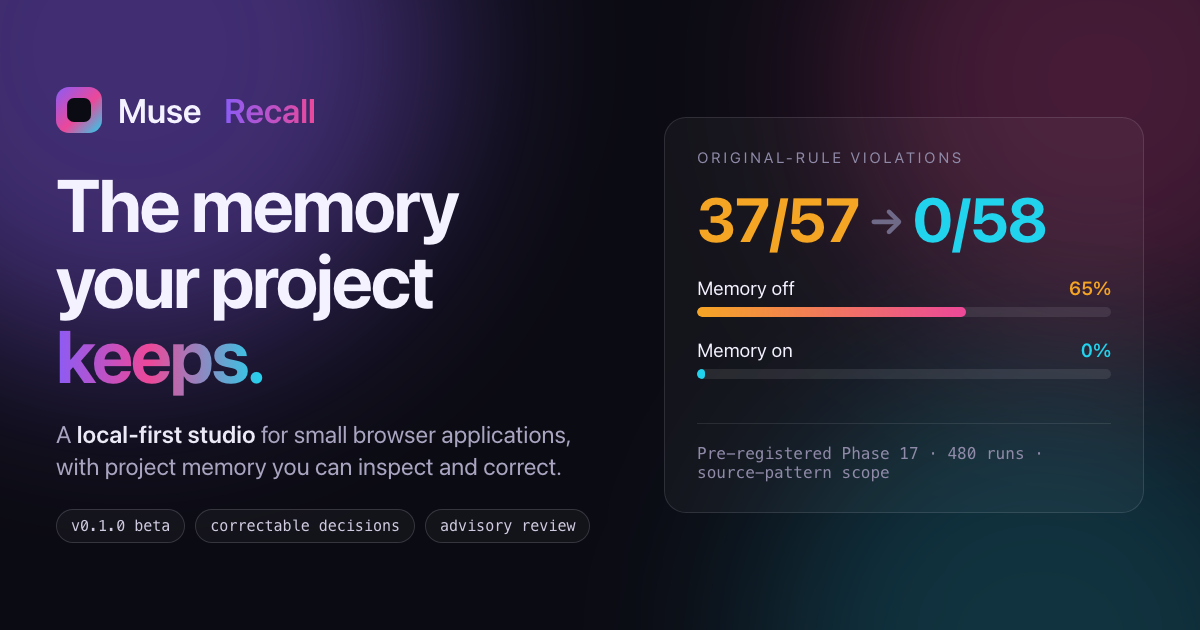
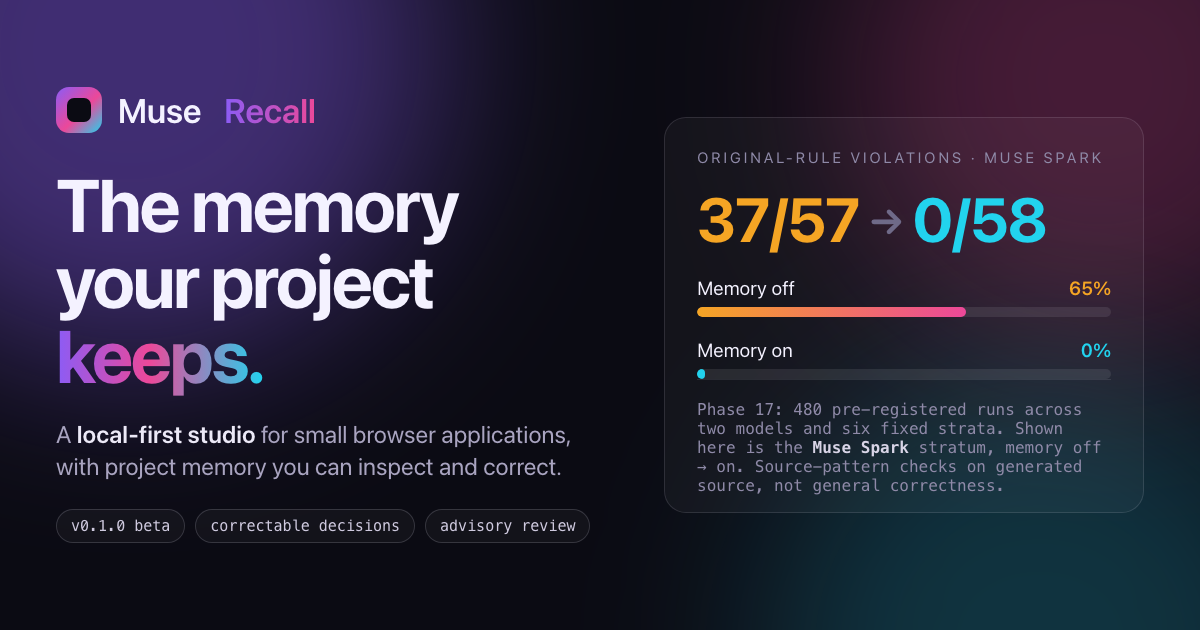
Correct demo beat labels, submission-tag claims, metadata and social-card stats
Review corrections on PR #273.

docs/demo/video/V21_QA.md
- Beat table rebuilt from the shipped caption cues plus frames pulled from the video:
  chapter starts at 0:05.2, 0:25.1, 0:34.0, 0:43.7, 0:51.9, 1:08.7, 1:22.5, 1:35.4,
  1:42.5, 1:57.3, 2:12.1, 2:30.0, 2:55.4, each row quoting the in-video card label
  ("Recorded live Muse Spark · actual CLI requests and results", "Retained Meta result.
  Approval and insertion replayed here", "Meta vision: ... deterministic review fixtures",
  and the export/dry-run import terminal output).
- "Inference during this cut" replaced by "Production provenance": no calls were made while
  assembling the cut, which is not a claim that the footage has no live calls.

No submission tag exists: git ls-remote --tags origin lists v0.1.0, submission-v14,
submission-v15, phase17-preregistration and archive/*. The previous cut is located at v0.1.0
(707921db83a374d155d3929ef9b99092bcd4e8f1) and at c32d03b for the 29 October file. Fixed the
claims that treated submission-2026-11-04 as existing in V21_QA.md, EVIDENCE_MAP.md,
SECURITY.md and SUBMISSION_CHECKLIST.md; the roadmap and release notes keep it as planned work.

website
- index.html gains <link rel="canonical" href="https://sidonsoft.github.io/muse-recall/"> to
  match og:url; qa.mjs pins canonical, og:url and og:image as exact strings and matches
  multi-line meta tags. README now describes what prerender.mjs really does (no SITE setting;
[…]

Changed region(s): [[0.5858, 0.6333, 0.925, 0.7841], [0.8017, 0.2413, 0.925, 0.2714]]

diff --git a/website/src/components/Sections.jsx b/website/src/components/Sections.jsx
@@ -52,17 +52,17 @@ export function Watch() {
   const beats = [
     ['0:00', 'Owner-confirmed disclosure: no product code existed before the event.', 'Recorded disclosure card'],
     ['0:05', 'Save one project decision, ask for a game, review the staged result, approve v1.', 'Recorded live call — generation waits shown sped up and labelled'],
-    ['0:24', 'A fresh page, a new request, Guard says not verified, the proposal is rejected.', 'Recorded live call'],
-    ['0:33', 'Correct the decision: the old record becomes superseded, the replacement active.', 'Recorded live session — UI actions condensed'],
+    ['0:25', 'A fresh page, a new request, Guard says not verified, the proposal is rejected.', 'Recorded live call'],
+    ['0:34', 'Correct the decision: the old record becomes superseded, the replacement active.', 'Recorded live session — UI actions condensed'],
     ['0:43', 'Repeat the request: the retired palette comes back and the Guard flags it.', 'Recorded live call — the real failure, kept in'],
     ['0:51', 'Ask explicitly for the project’s current decisions; approve v2.', 'Recorded live call'],
     ['1:08', 'Where Meta is used: the coding CLI for applications, media APIs for image, segmentation, speech and vision.', 'Running beta UI over a retained live generation'],
     ['1:22', 'Decision history, what a generation received, memory export and import.', 'Recorded UI plus actual export/import terminal output'],
     ['1:35', 'Upload, generate and edit image assets.', 'Retained live provider outputs'],
     ['1:42', 'Meta’s SAM isolates an object, the transparent cutout is reviewed, approved and inserted.', 'Retained live SAM output; the approval and insertion are a labelled replay with no new call'],
-    ['1:57', 'Voice and video as sources: record or upload, play back, transcribe, inspect a clip.', 'Running beta UI with upload/playback fixtures — no fresh transcription implied'],
+    ['1:57', 'Media references in one panel: upload or record, play back, summarise a clip, use it in a new request — the suggestions still need a person.', 'Running beta UI — the reference clips are playback fixtures, the observations shown are recorded detail'],
     ['2:12', 'Screenshot review against selected decision revisions; the human still approves.', 'Deterministic fixture'],
-    ['2:29', 'Phase 17 counts with their scope, and the open findings on a generated application.', 'Running beta UI over retained output; the trial is a separate fixed-task experiment'],
+    ['2:30', 'Phase 17 counts with their scope, and the open findings on a generated application.', 'Running beta UI over retained output; the trial is a separate fixed-task experiment'],
     ['2:55', 'Close: the memory your project keeps.', 'Title card'],
   ];
   return (
@@ -77,7 +77,9 @@ export function Watch() {
             generation and editing, a SAM cutout inserted into a request, voice and video sources,
             screenshot review and version approval. The model-role explanation starts at 1:08 and the
             SAM explanation at 1:42. Nothing is presented as one continuous live session: every beat
-            says what kind of evidence it is.
+            says what kind of evidence it is — the first minute is labelled on screen as
+            <em> recorded live Muse Spark, actual CLI requests and results</em>, while later beats are
+            labelled retained outputs, product replays or deterministic fixtures.
           </p>
         </div>
         <figure className="figure video-figure reveal">
@@ -112,7 +114,10 @@ export function Watch() {
               checksum, narration identity and recording provenance
             </a>
             . The voice-over is one synthetic narration (Bella, generated with Eleven v4) at natural
-            speed; nothing in the cut made a new model call.
+            speed, and no new inference calls were made while the cut was assembled — that is a
+            statement about production, not about the footage: the opening minute shows recorded live
+            Muse Spark requests and their results, and the later beats are retained outputs, labelled
+            replays or fixtures.
           </figcaption>
         </figure>
 

diff --git a/website/index.html b/website/index.html
@@ -21,6 +21,9 @@
       content="Muse Recall is a local-first studio for building small browser applications with correctable project memory: provenance, revisions and supersession, bounded retrieval, a Muse Code CLI application workflow, image and SAM reference cutouts, voice/video sources, advisory review, and staged changes you approve. v0.1.0 beta, with pre-registered 480-run behavioural evidence."
     />
     <meta property="og:type" content="website" />
+    <!-- Deployed origin: GitHub Pages project page. Keep og:url, og:image, twitter:image, the
+         canonical below and the JSON-LD url in scripts/prerender.mjs on this one origin. -->
+    <link rel="canonical" href="https://sidonsoft.github.io/muse-recall/" />
     <meta property="og:title" content="Muse Recall — project memory you can inspect and correct" />
     <meta
       property="og:description"
@@ -35,7 +38,7 @@
     <meta property="og:image:height" content="630" />
     <meta
       property="og:image:alt"
-      content="Muse Recall: the memory your project keeps. Original-rule violations 37/57 with memory off, 0/58 with memory on (pre-registered Phase 17, Muse Spark, six fixed tasks, source-code checks)."
+      content="Muse Recall: the memory your project keeps. At right, original-rule violations in the Muse Spark stratum of the 480-run pre-registered Phase 17 experiment: 37 of 57 usable runs with memory off, 0 of 58 with retrieved memory. Fixed source-pattern checks on generated source, not general correctness."
     />
     <meta name="twitter:card" content="summary_large_image" />
     <meta name="twitter:image" content="https://sidonsoft.github.io/muse-recall/assets/og-image.png" />

diff --git a/docs/demo/video/V21_QA.md b/docs/demo/video/V21_QA.md
@@ -19,7 +19,8 @@ folder with `ffprobe`/`shasum`, not copied from an editorial report.
 | Narration | One voice: **Bella** (Professional, Bright, Warm), generated with **Eleven v4**, one complete take, playback 1.0×, no pitch processing; −16.12 LUFS integrated, −1.42 dBFS true peak |
 | Narration editing | 5.756 s removed from measured quiet pauses only; every speech sample retained; the loudest removed sample was below −64.29 dBFS; minimum preserved quiet gap 0.35 s |
 | Footage | about 156.6 s of moving product or terminal footage; spoken model-role explanation starts at 1:08.6; the spoken Meta SAM sentence starts at 1:42.5 |
-| Inference during this cut | 0 new Meta calls were made while assembling it; all model output shown is retained from earlier runs or a labelled deterministic fixture |
+| Production provenance | No inference calls were made **while assembling this cut**. That is not the same as saying the footage has no live calls: the opening minute is labelled on screen as "Recorded live Muse Spark · actual CLI requests and results", and later beats show retained media outputs, labelled product replays and deterministic review fixtures — every beat is classified below |
+| Chapter boundaries below | Taken from the shipped caption cues (`Muse_Recall_Demo_V21.srt`, cue start times) and checked against frames pulled from the video, not from rounded estimates |
 
 The editorial source tree, the original narration takes, the full editing timeline and the QA report
 for this cut are kept **outside** the repository. The upstream `QA.json` for this cut also records a
@@ -28,21 +29,33 @@ container size of 15,040,086 bytes, which does not match the bytes now shipped
 
 ## What the footage supports, beat by beat
 
-| Time | Beat | Evidence class |
-|---|---|---|
-| 0:00 | Owner-confirmed disclosure: no product code existed before the event; Muse Recall was built during it | owner statement |
-| 0:03–1:08 | Recorded generation through the Muse Code CLI, review, rejection, a memory correction, an explicit follow-up request, then approval; model and request view enlarged; long generation waits condensed and labelled as condensed | recorded live call + retained model output |
-| 1:08 | Spoken map of where Meta is used: application generation and change through the **Muse Code CLI**, media tasks through **Meta model APIs** | narration over product footage |
-| 1:42 | "Meta's SAM isolates an object from a reference image. We review the transparent cutout, approve it, and insert it into an application request." | narration over product footage |
-| 1:45–2:00 | The retained SAM 3.1 cutout is inspected for transparency, approved, then inserted into the next application request; the insertion/approval continuation is a **labelled replay** over the same cutout bytes, not a fresh call | retained model output + product replay |
-| 2:00–2:20 | Image generation and editing with retained `muse-image-1.0` results; voice and video references shown with their playback and clip observations | retained model output; no fresh transcription is claimed by those shots |
-| 2:20–2:40 | Vision-proposed decision drafts and screenshot review against selected decision revisions | deterministic fixture, labelled on screen |
-| 2:40–3:00 | Memory timeline, provenance and versioned memory export/import; limits stated | retained command output + product replay |
+Times are the first caption cue of each chapter. The in-video card text is quoted so a reviewer
+can confirm each label against the frame.
 
-Phase 17's 480 runs are a separate fixed-task, source-pattern experiment with its own bounds; the
-demo does not restate them as app quality. Guard and screenshot review remain advisory. Human
-approval remains necessary, and the approval gate checks loading — not general correctness,
-accessibility, or every interaction.
+| Time | Beat | In-video label / what is on screen | Evidence class |
+|---|---|---|---|
+| 0:00.2 | Owner-confirmed disclosure: no product code existed before the event; the project was built during it | disclosure card | owner statement |
+| 0:05.2 | One project decision is saved, a farm-animal memory game is requested, the staged page follows the decision, version one is approved | card: "Save the project decision. **Recorded live Muse Spark · actual CLI requests and results**"; model and request view enlarged; generation waits condensed and labelled | **recorded live call** — Muse Spark CLI request, running job, returned application |
+| 0:25.1 | A fresh page with no request history asks for a Next Level button; Guard reports not verified; the change is rejected | card: "New session. Request a change. · Recorded live Muse Spark · actual CLI requests and results" | recorded live call |
+| 0:34.0 | The decision is corrected: the old record becomes superseded, the replacement active, the reason stays in history | card: "Correct the decision. Keep the superseded record. · Recorded live Muse Spark · actual CLI requests and results · UI actions condensed" | recorded live call, UI actions condensed |
+| 0:43.7 | The same request brings the retired palette back and Guard flags it; because Guard is advisory it does not block, so the change is rejected | card: "Repeat the request with the corrected memory. · Recorded live Muse Spark · actual CLI requests and results" | recorded live call — the real failure, kept in |
+| 0:51.9 | An explicit request to follow the project's current decisions produces the corrected source; approved as version two | card: "Explicitly request the current decisions from memory. · Recorded live Muse Spark · actual CLI requests and results" | recorded live call |
+| 1:08.7 | Where Meta is used: the **Muse Code CLI** generates and changes applications; **Meta media APIs** handle image generation and editing, segmentation, transcription and visual review | cards: "Where and how Meta models are used. · Running beta UI · retained real Meta-generated application", then "WHERE META IS USED": Muse Code CLI → generate and change HTML; Media APIs → image, speech and vision tasks; SAM → select objects and extract cutouts | narration over recorded product footage |
+| 1:22.5 | Each decision keeps its source and history; what a generation received is inspectable; memory is exported and imported with its replacement links | card: "Keep each decision and its history visible · recorded detail of the Muse Spark actual CLI request and application output" — memory search, timeline and relationships, then a terminal running `curl … /api/memories/export` and `curl -X POST … /api/memories/import` returning `records_imported: 3, history_imported: 5, edges_imported: 1, projects_ensured: 1, dry_run: true` | recorded UI + **retained command output** (the import shown is a **dry run**) |
+| 1:35.4 | References enter the same workflow: upload an image, generate one, or edit an asset | card: "Meta image models: generate and edit project assets · retained real Meta-generated outputs" | **retained model output** |
+| 1:42.5 | The explicit SAM sentence: "Meta's SAM isolates an object from a reference image. We review the transparent cutout, approve it, and insert it into an application request." | card: "Meta SAM: isolate an object from a reference image · actual retained Meta SAM result" — reference image, selected object, alpha cutout on a checkerboard | **retained model output** (`sam-3.1`) |
+| 1:45.9 → 1:56.9 | The cutout is inspected for transparency, approved, then carried into an application request as a `muse-asset://` reference | card: "Retained Meta result. Approval and insertion replayed here · actual retained SAM cutout · current product UI replay" | **product replay** over the same bytes — no second segmentation call |
+| 1:57.3 | The media panel fills with references — uploaded and generated images plus four notes — including a 0:00:39 clip whose recorded observations say "a duck quacks at 0:20 and a wrong-answer tone plays at 0:26"; each reference can be summarised or used in a new request, and suggested decisions stay unapproved | card: "Media speech and vision: transcribe audio and inspect clips · recorded detail of upload/playback fixtures, media and preview transcription and clip generations"; burned-in caption at 2:00: "upload, play back, transcribe speech, and inspect a clip"; at 2:09: "these features help assemble the brief, they do not approve" | recorded UI: the reference clips played back here are **fixtures**, while the asset list and clip observations are recorded detail from earlier runs — none of it is a call made during editing |
+| 2:12.1 | The preview is captured and that frame is reviewed against selected decision revisions; findings carry uncertainty; nothing is approved; Guard is separate and both are advisory | card: "Meta vision: review a frame against selected decisions · actual beta UI, deterministic review fixtures — not live vision judgement" | **deterministic fixture** |
+| 2:30.0 | Phase 17 with its scope: Muse Spark 37/57 → 0/58, Muse Spark Open 49/60 → 1/60, 480 runs, six fixed tasks, source-code checks, 8 timeouts, and no claim of general correctness or media-quality validation | card: "Evidence has a scope. The product still needs review … Phase 17 is a separate fixed-task trial" beside the Palette Bench application | running beta UI over retained output; the trial is separate bounded evidence |
+| 2:55.4 | Close: "Muse Recall. The memory your project keeps." | title card | title card |
+
+The Phase 17 denominators quoted in the cut are per-task run counts inside the 480-run
+source-pattern experiment — 37/57 and 0/58 are the **Muse Spark** task pair, not the whole
+experiment — and the cut itself says the trial "does not establish general correctness or
+validate the newer media features". Guard and screenshot review remain advisory. Human approval
+remains necessary, and the approval gate checks loading — not general correctness, accessibility,
+or every interaction.
 
 ## Previous cuts at the same paths (historical)
 
@@ -51,10 +64,16 @@ Do not cite these as the current file. Both remain in Git history at the commits
 | Cut | Identity | Where it lives |
 |---|---|---|
[2 lines of base64/hex data omitted]
-  asset (`Muse_Recall_Beta_Demo_3min.mp4`, 10,876,299 B) with its own `Muse_Recall_Beta_Demo.srt`
-  and `Demo-Transcript.txt`; the tag object (`27e27ee…` → commit `707921d…`) and all release assets
-  are unchanged |
[1 lines of base64/hex data omitted]
+
+**No `submission-2026-11-04` tag exists on the remote.** `git ls-remote --tags origin` lists
+`v0.1.0`, `submission-v14`, `submission-v15`, `phase17-preregistration` and `archive/*` tags —
+nothing for a 4 November submission tree. The [roadmap](../../roadmap/POST_HACKATHON_ROADMAP.md)
+and [preservation manifest](../../release/SUBMISSION_PRESERVATION.md) describe such a tag as work
+still to do ("to record"), and [`docs/release/notes/submission-2026-11-04.md`](../../release/notes/submission-2026-11-04.md)
+is an unpublished template. Nothing in this record depends on that tag; submission has not
+happened. The previous cut is reachable at `v0.1.0` and through `main`'s history at
+`707921db83a374d155d3929ef9b99092bcd4e8f1`, not through a submission tag.
 
 The tag `v0.1.0` and everything published from it still carry the George-narrated 4 November cut.
 `main` and the deployed website now carry the Bella / Eleven v4 recut above. Neither statement about

diff --git a/docs/SUBMISSION_CHECKLIST.md b/docs/SUBMISSION_CHECKLIST.md
@@ -10,7 +10,7 @@ Status on 4 November 2026: **v0.1.0 published; hackathon not yet submitted.** Th
[1 lines of base64/hex data omitted]
 - [x] Website and repository serve identical video bytes. Two older cuts belong to history, not to the current path: the 2:50.47 / `4020c0c6…` file at commit `c32d03b`, and the 3:00 / `6c9e985c…` cut published with the v0.1.0 release at `707921d` (that tag and its assets are unchanged).
 - [x] Recut published on 4 November against the latest owner-supplied Discord guidance: it opens with the owner-confirmed statement that no product code existed before the event, leads with the recorded generate → review → reject → correct → approve loop, keeps about 156.6 of its 180 seconds on moving product or terminal footage, names the model roles (Muse Code CLI for application generation and change, Meta model APIs for media) and the Meta SAM cutout workflow, is English, and runs exactly 3:00. Beat-level provenance and evidence classes are in [V21_QA.md](demo/video/V21_QA.md).
-- [ ] Owner decides whether that cut satisfies the guidance point about **live Meta calls being visible**: the cut shows recorded and retained calls plus labelled replays and fixtures, and made **no new Meta calls during assembly**. It has not been declared compliant with the Official Rules, and submission has not happened.
+- [ ] Owner decides whether that cut satisfies the guidance point about **live Meta calls being visible**. Two facts must not be merged. The footage does contain live calls: the first minute is labelled on screen as "Recorded live Muse Spark · actual CLI requests and results", showing the CLI request, the running job and the returned application. What did not happen is new inference calls **while assembling** the cut — that is production provenance, and the later beats are labelled retained media outputs, product replays or deterministic fixtures. Whether the guidance asks for calls performed live while recording, or recorded calls made visible on screen, is the owner's reading to make. Nothing here claims Official-Rules compliance, and submission has not happened.
 
 ## Guidance and remaining owner actions
 
@@ -23,7 +23,7 @@ The owner confirmed: **no existing product code before the event; Muse Recall wa
 - [ ] Owner submits the repository URL, final video URL and accurate [submission copy](submission/SUBMISSION_COPY.md) through the platform.
 - [ ] Record the actual submitted commit, video identity, submission time and receipt only after submission. Publishing v0.1.0 is not submission.
 
-The earlier recorded deadline is 4 November 2026, 9:00 PM ET; confirm it on the platform. Keep existing frozen submission/research tags and checksummed evidence unchanged. A new submission tag must identify the actual submitted tree.
+The earlier recorded deadline is 4 November 2026, 9:00 PM ET; confirm it on the platform. Keep existing frozen submission/research tags and checksummed evidence unchanged. A new submission tag must identify the actual submitted tree. Checked against the remote on 4 November: `git ls-remote --tags origin` lists `v0.1.0`, `submission-v14`, `submission-v15`, `phase17-preregistration` and `archive/*` — there is **no** `submission-2026-11-04` tag yet, so no document may describe it as existing.
 
 ## Product boundaries to disclose
 

diff --git a/docs/submission/EVIDENCE_MAP.md b/docs/submission/EVIDENCE_MAP.md
@@ -360,7 +360,11 @@ recut: 180.000 seconds, 14,903,823 bytes, SHA-256
 intermediate 4 November cut (180.000 seconds, 10,876,299 bytes, SHA-256
[1 lines of base64/hex data omitted]
 [`v0.1.0`](https://github.com/sidonsoft/muse-recall/blob/v0.1.0/docs/demo/video/Muse_Recall_Demo_V21_1080p.mp4?raw=true)
-tag and the frozen `submission-2026-11-04` tag, unchanged. See
+tag only, unchanged; it is also the `Muse_Recall_Beta_Demo_3min.mp4` asset on that GitHub Release.
+There is **no** `submission-2026-11-04` tag on the remote — `git ls-remote --tags origin` lists
+`v0.1.0`, `submission-v14`, `submission-v15`, `phase17-preregistration` and `archive/*`, and that
+tag is planned work in [POST_HACKATHON_ROADMAP.md](../roadmap/POST_HACKATHON_ROADMAP.md), not an
+existing reference. See
 [current QA and footage provenance](../demo/video/V21_QA.md). Both current cuts combine
 recorded live calls, retained model outputs, product replays and labelled fixtures; neither is a
 continuous live session.

diff --git a/SECURITY.md b/SECURITY.md
@@ -34,4 +34,4 @@ vulnerability, unless it lets the model do something the app should have blocked
 | --- | --- |
 | `integration` (latest) | Yes, fixes land here first |
 | `main` (latest) | Yes, through promotion from `integration` |
-| `submission-2026-11-04` tag | No. It is the frozen hackathon submission and is never rewritten. Issues in it are fixed on `integration` and disclosed in an advisory. |
+| `submission-2026-11-04` tag — **planned, not created** (`git ls-remote --tags origin` shows no such tag) | No. If a submission tag is cut it is never rewritten: issues found in that tree are fixed on `integration` and disclosed in an advisory. |
